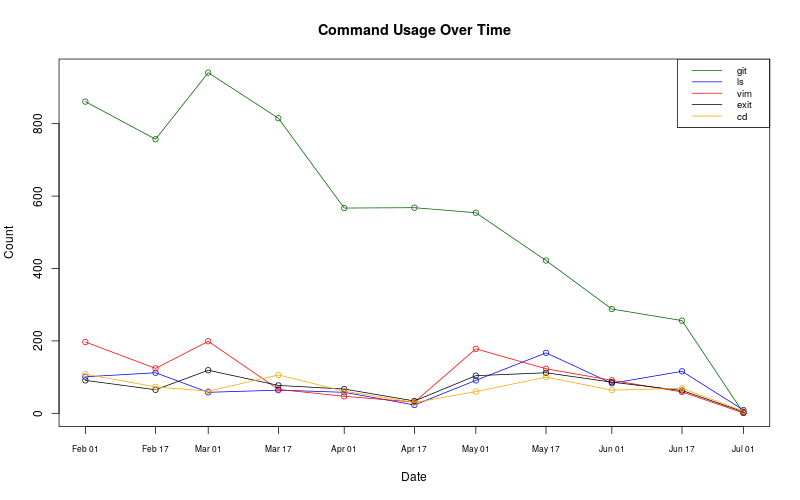
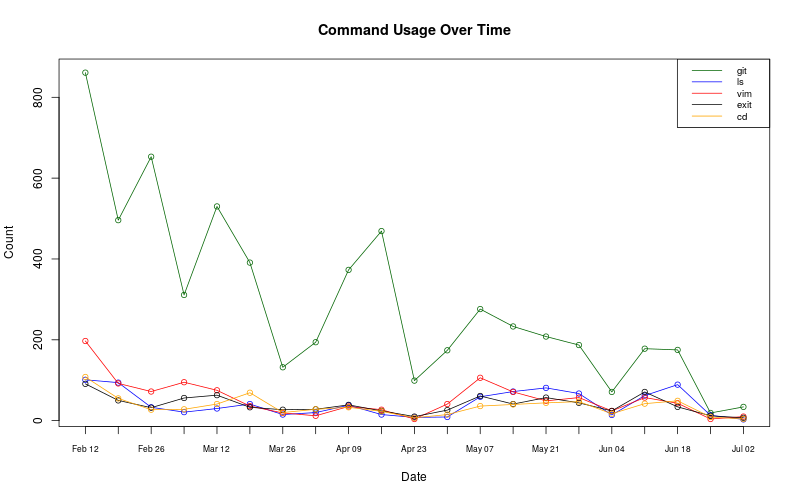
Use Ruby Date Library to Generate Bins
Closes #9

diff --git a/analyze.rb b/analyze.rb
@@ -1,10 +1,13 @@
 #!/usr/bin/env ruby
 
 require 'json'
+require 'date'
 
 totals = {}
 bydate = {}
 aliases = {}
+
+binwidth = 7 #days
 
 # replace *.rb with ruby etc.
 def sub_scripts(command)
@@ -34,9 +37,7 @@ File.readlines("#{Dir.home}/.bash_aliases").each do |line|
 end
 
 Dir.glob('data/*').each do |file|
-  date = file.match(/([0-9-]{10}) (?:[0-9:]{5})\.txt/i).captures[0]
-  year, month, day = date.split('-')
-
+  date = Date.strptime(file, "data/%Y-%m-%d %H:%M.txt")
   File.readlines(file).each do |line|
     command = line.strip.split(/[\s;]/)[0]
 
@@ -46,8 +47,7 @@ Dir.glob('data/*').each do |file|
 
     totals[command] = totals[command].to_i + 1
 
-    # NOTE Change How This is Found to Change Bin Width
-    bin = year + '-' + month + '-' + ((day.to_i/16).to_i * 16 + 1).to_s
+    bin = (date - ((date.yday - 1) % binwidth)).strftime("%Y-%m-%d")
 
     bydate[command] = {} if bydate[command].nil?
     bydate[command][bin] = bydate[command][bin].to_i + 1
